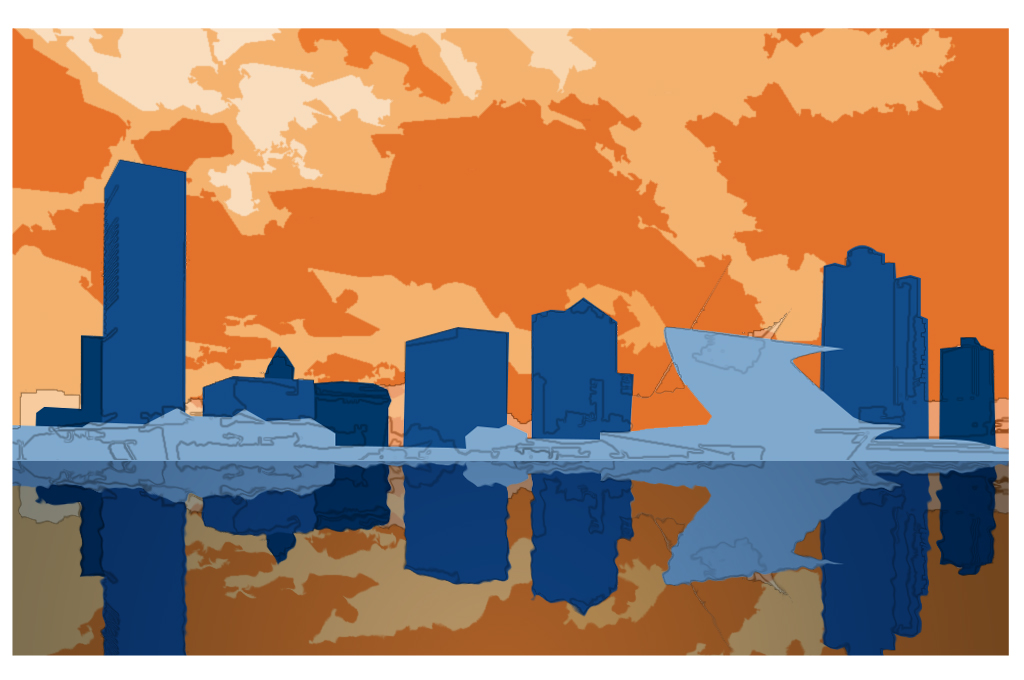
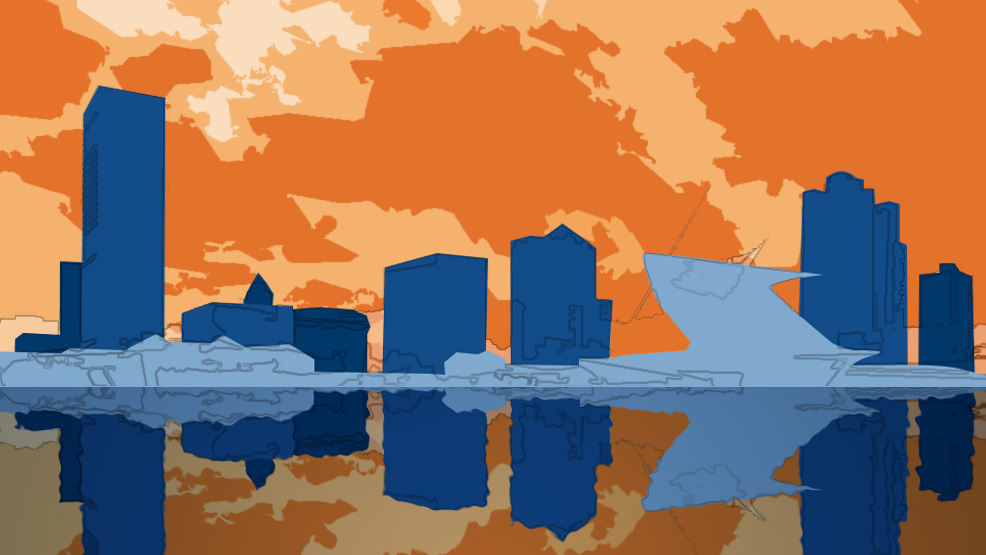
cropped home hero image

diff --git a/css/grayscale.css b/css/grayscale.css
@@ -101,7 +101,7 @@
 .masthead2 {
   position: relative;
   width: 100%;
-  height: 50%;
+  height: ;
   margin-bottom: 10%;
   min-height: 35rem;
   padding: 15rem 0;
